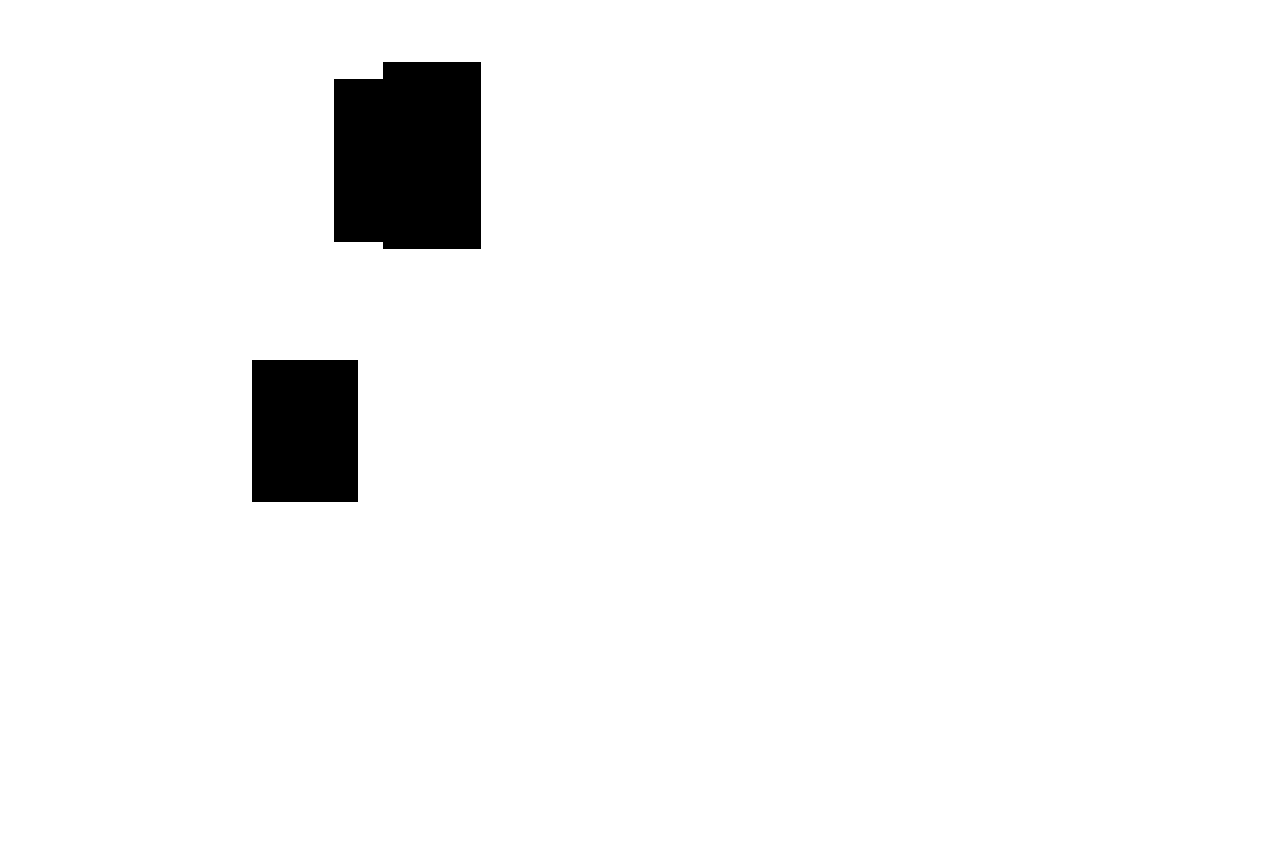
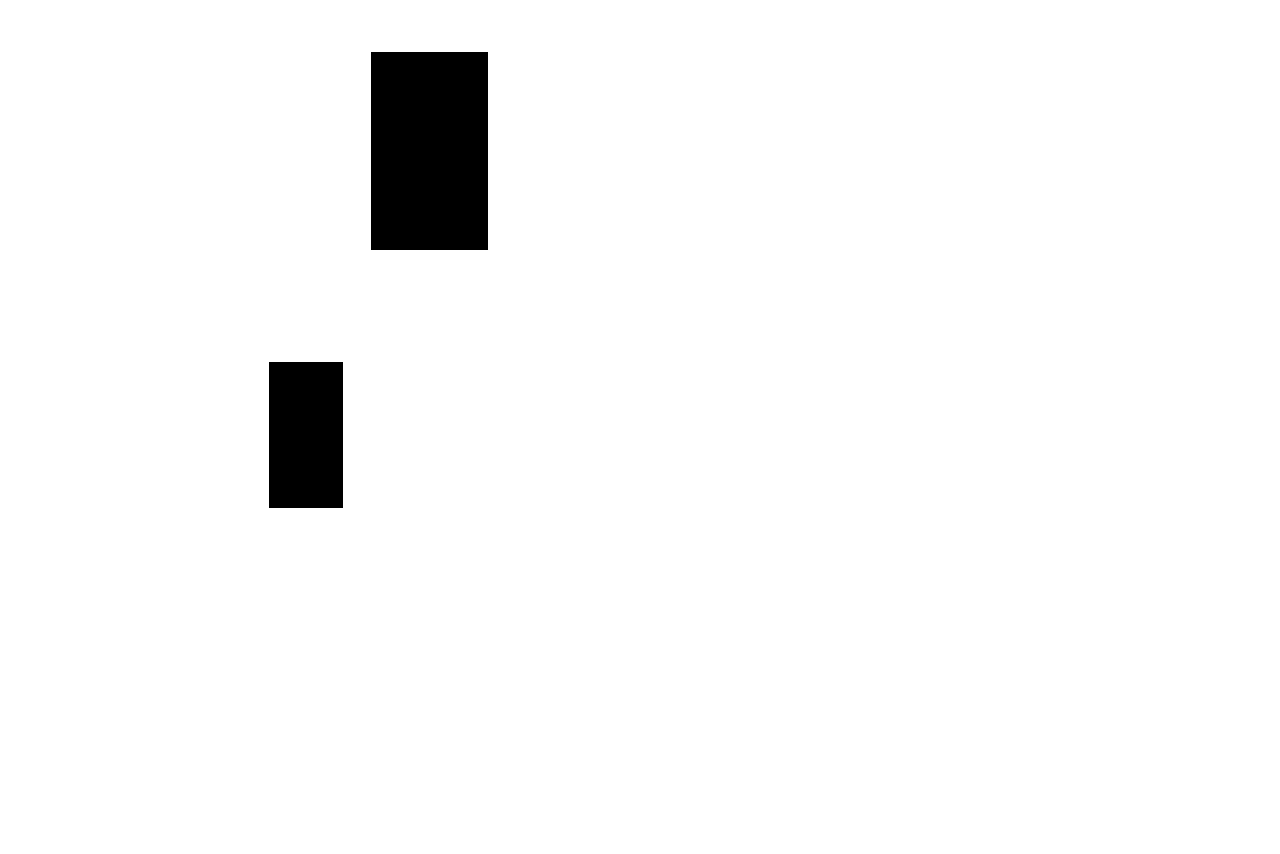
Fixed some issues caused by a bug in the tempate generator

Changed region(s): [[0.25, 0.0609, 0.4062, 0.3044], [0.1875, 0.3958, 0.2812, 0.6089]]

diff --git a/template_generator/generate.py b/template_generator/generate.py
@@ -71,7 +71,7 @@ while True:
     # 'r' key pressed means reset rectangles
     if key == ord("r"):
         image = copy.copy()
-        rectangle = []
+        rectangles = []
     # 'enter' key pressed means save mask
     # also works with the 'c' key just in case mac enter keys are a different value
     elif key == 13 or key == ord("c"):
